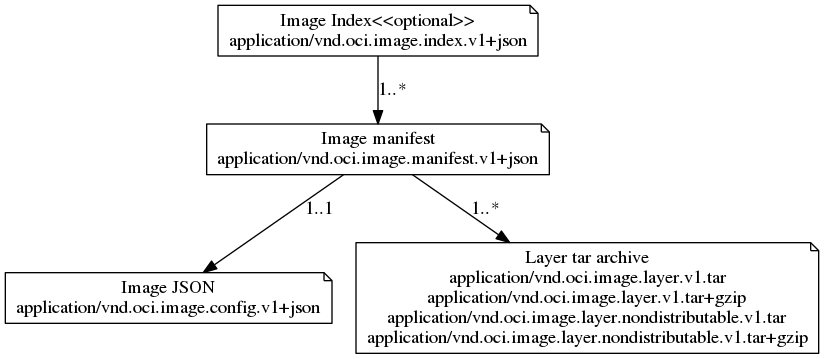
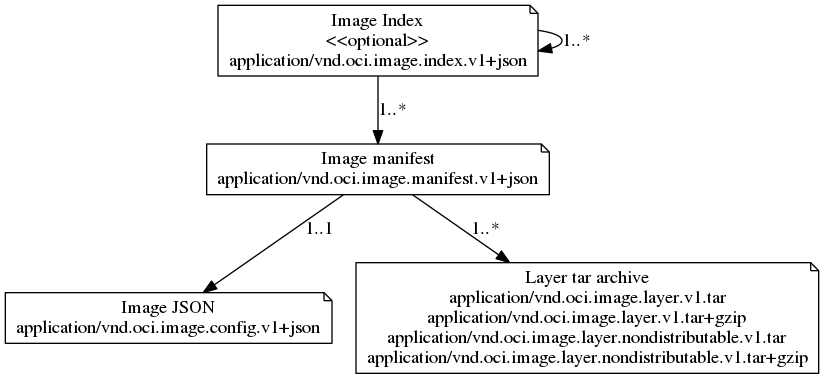
clarification about nested index

diff --git a/image-layout.md b/image-layout.md
@@ -199,7 +199,11 @@ Those tags will often be represented in an image-layout repository with matching
 }
 ```
 
-This illustrates an index that provides two named manifest references and an auxiliary mediatype for this image layout.
+This illustrates an index that provides two named references and an auxiliary mediatype for this image layout.
 
+The first named reference (`stable-release`) points to another index that might contain multiple references with distinct platforms and annotations.
+Note that the [`org.opencontainers.image.ref.name` annotation](annotations.md) SHOULD only be considered valid when on descriptors on `index.json`.
+
+The second named reference (`v1.0`) points to a manifest that is specific to the linux/ppc64le platform.
 
 [descriptors]: ./descriptor.md

diff --git a/image-index.md b/image-index.md
@@ -34,6 +34,10 @@ For the media type(s) that this document is compatible with, see the [matrix][ma
 
     - [`application/vnd.oci.image.manifest.v1+json`](manifest.md)
 
+    Also, implementations SHOULD support the following media types:
+
+    - `application/vnd.oci.image.index.v1+json` (nested index)
+
     Image indexes concerned with portability SHOULD use one of the above media types.
     Future versions of the spec MAY use a different mediatype (i.e. a new versioned format).
     An encountered `mediaType` that is unknown SHOULD be safely ignored.
